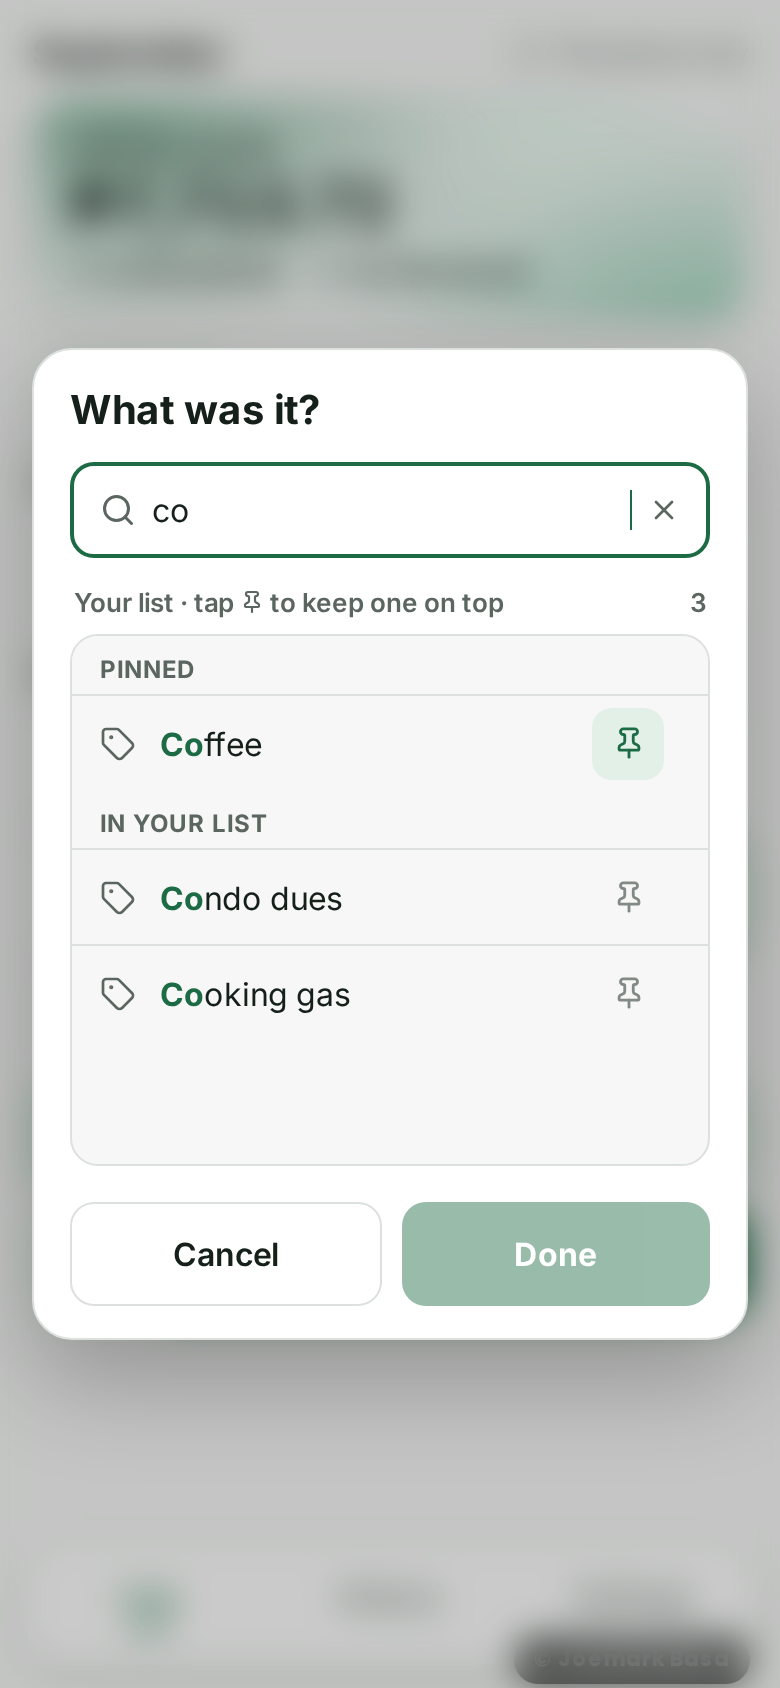
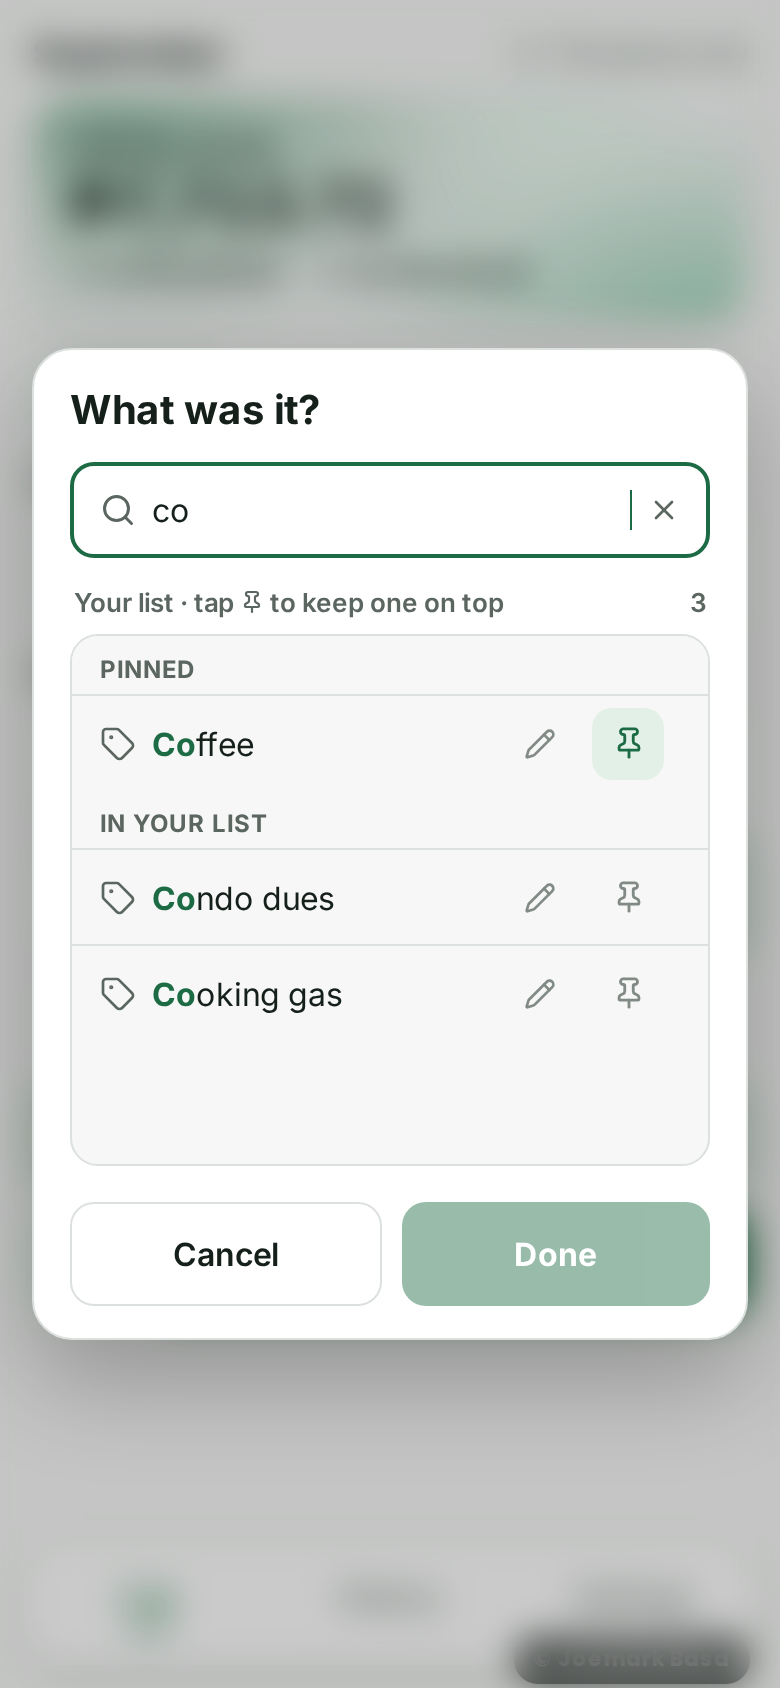
Mockups 3.1 round 5: edit a name in the Other list
Pencil next to each pin opens an Edit pop-up: rename (optionally renaming
past entries too) or remove from the list.

Claude-Session: https://claude.ai/code/session_015nXdEW66MzNZpF9pMsWtRi

diff --git a/docs/mockups/3.1/mock.html b/docs/mockups/3.1/mock.html
@@ -132,7 +132,7 @@ svg.i{fill:none;stroke:currentColor;stroke-linecap:round;stroke-linejoin:round;f
 .odlg h3{font-size:20px;font-weight:700}
 .olab{display:flex;justify-content:space-between;align-items:center;font-size:13px;font-weight:600;color:var(--muted);margin:14px 2px 8px}
 .obox{position:relative;height:266px;border:1px solid var(--border);border-radius:14px;overflow:hidden;background:var(--bg)}
-.orow{display:flex;align-items:center;gap:12px;height:48px;padding:0 22px 0 14px;border-top:1px solid var(--border);font-size:16px;color:var(--text)}
+.orow{display:flex;align-items:center;gap:8px;height:48px;padding:0 22px 0 14px;border-top:1px solid var(--border);font-size:16px;color:var(--text)}
 .orow:first-child{border-top:0}
 .orow .ic{color:var(--muted);display:flex}
 .orow.on{background:var(--accentSoft);font-weight:600}
@@ -167,10 +167,10 @@ function vars(key, mode){
   const L = th.L, D = th.D;
   if(!dark) return {accent:L.accent,accentText:'#FFFFFF',accentSoft:L.soft,bg:L.bg,bgAlt:L.bg,surface:'#FFFFFF',text:L.text,muted:L.muted,border:L.border,
     glass:'rgba(255,255,255,0.55)',glassBorder:'rgba(255,255,255,0.60)',nav:'rgba(255,255,255,0.72)',navBorder:'rgba(22,32,27,0.08)',navTop:'rgba(255,255,255,0.9)',
-    scrim:'rgba(17,21,19,0.22)',noteHint:L.muted,hstat:'rgba(255,255,255,0.55)',hbarTrack:'rgba(255,255,255,0.7)',mesh:L.mesh,mo:[1,1,.9],dark:false};
+    scrim:'rgba(17,21,19,0.22)',danger:'#B3261E',noteHint:L.muted,hstat:'rgba(255,255,255,0.55)',hbarTrack:'rgba(255,255,255,0.7)',mesh:L.mesh,mo:[1,1,.9],dark:false};
   return {accent:D.accent,accentText:D.at,accentSoft:D.soft,bg:D.bg,bgAlt:D.bg,surface:D.surface,text:'#EDF1EE',muted:'#A3ADA7',border:D.border,
     glass:'rgba(26,32,29,0.42)',glassBorder:'rgba(255,255,255,0.08)',nav:hexa(D.surface,.74),navBorder:'rgba(255,255,255,0.07)',navTop:'rgba(255,255,255,0.18)',
-    scrim:'rgba(0,0,0,0.38)',noteHint:'#B7C0BA',hstat:'rgba(0,0,0,0.22)',hbarTrack:'rgba(255,255,255,0.14)',mesh:D.mesh,mo:[1,1,.7],dark:true};
+    scrim:'rgba(0,0,0,0.38)',danger:'#F2B8B5',noteHint:'#B7C0BA',hstat:'rgba(0,0,0,0.22)',hbarTrack:'rgba(255,255,255,0.14)',mesh:D.mesh,mo:[1,1,.7],dark:true};
 }
 function hexa(h,a){const n=parseInt(h.slice(1),16);return `rgba(${n>>16},${(n>>8)&255},${n&255},${a})`}
 const V = vars(TH, MODE);
@@ -306,12 +306,20 @@ function faqSheet(){
 // Most used first (Joe v3.1 round 2); pinned ones sit on top whatever their use.
 const MYLIST = ['Haircut','Tuition','Laundry','Condo dues','Cooking gas','Gym','Pets','Gifts','Rent','Netflix','Coffee','Parking'];
 const PINNED = ['Coffee','Parking'];
+function editDlg(){
+  return `<div class="veil" style="z-index:5"></div><div class="dialog" style="z-index:6"><h3>Edit “Coffee”</h3>
+    <div class="field focus" style="margin-top:14px">${ic('tag',18,2,'style="color:var(--accent)"')}<span style="flex:1">Coffee & snacks</span><span style="width:1.5px;height:20px;background:var(--accent)"></span>${ic('x',16,2,'style="color:var(--muted)"')}</div>
+    <div class="check" style="margin:12px 2px 0;align-items:flex-start"><div class="box on" style="margin-top:1px">${ic('check',14,3)}</div><span style="line-height:20px">Rename my 14 past entries too<br><span style="font-size:13px;color:var(--muted);font-weight:400">So History and the charts stay together</span></span></div>
+    <div class="row2"><div class="btn out">Cancel</div><div class="btn" style="font-size:16px">Save</div></div>
+    <div style="margin-top:14px;text-align:center;font-size:15px;font-weight:600;color:var(--danger)">Remove from my list</div>
+    <div style="margin-top:4px;text-align:center;font-size:12.5px;color:var(--muted)">Past entries keep their name if you remove it.</div></div>`;
+}
 function otherDlg(q, typed){
   const ql = (q||'').toLowerCase();
   const match = n => !ql || n.toLowerCase().includes(ql);
   const pinned = PINNED.filter(match), rest = MYLIST.filter(n => !PINNED.includes(n) && match(n));
   const hl = n => { if(!ql) return n; const i=n.toLowerCase().indexOf(ql); return n.slice(0,i)+'<mark>'+n.slice(i,i+ql.length)+'</mark>'+n.slice(i+ql.length); };
-  const row = (n, on) => `<div class="orow"><span class="ic">${ic('tag',18)}</span><span style="flex:1">${hl(n)}</span><span class="opin ${on?'on':''}">${ic('pin',17,2,on?'fill="currentColor"':'')}</span></div>`;
+  const row = (n, on) => `<div class="orow"><span class="ic">${ic('tag',18)}</span><span style="flex:1">${hl(n)}</span><span class="opin">${ic('pen',16,2)}</span><span class="opin ${on?'on':''}">${ic('pin',17,2,on?'fill="currentColor"':'')}</span></div>`;
   let rows = '';
   if (pinned.length) rows += `<div class="osec">Pinned</div>` + pinned.map(n => row(n, true)).join('');
   if (rest.length) rows += `<div class="osec">${ql ? 'In your list' : 'Most used'}</div>` + rest.map(n => row(n, false)).join('');
@@ -345,6 +353,7 @@ else if (S==='olist') html = log({cat:'Other', amt:'120'}) + otherDlg('', false)
 else if (S==='osearch') html = log({cat:'Other', amt:'120'}) + otherDlg('co', false);
 else if (S==='onew') html = log({cat:'Other', amt:'40'}) + otherDlg('Tricycle', true);
 else if (S==='hero') html = log({big:true});
+else if (S==='oedit') html = log({cat:'Other', amt:'120'}) + otherDlg('', false) + editDlg();
 else if (S==='herofilled') html = log({big:true, cat:'Other', picked:'Coffee', amt:'120', note:'Iced latte'});
 else if (S==='settings') html = settings();
 else if (S==='themes') html = settings() + themeSheet();

diff --git a/docs/mockups/3.1/review.html b/docs/mockups/3.1/review.html
@@ -54,20 +54,38 @@ footer{margin-top:56px;color:var(--muted);font-size:14px}
 
 <div class="wrap">
 <header>
-  <div class="eyebrow">Mockup review · round 4</div>
+  <div class="eyebrow">Mockup review · round 5</div>
   <h1>Gastos 3.1</h1>
   <p class="lede">Six updates from Joe's list, drawn as phone-size mockups in light and dark before any code is written. Screens use sample data. Nothing here is built yet; say what to change and I'll do another round.</p>
   <div class="meta">
     <span class="pill">Suggested version: 3.1</span>
     <span class="pill warn">1 small database change</span>
-    <span class="pill">Rounds 3 and 4 for review</span>
+    <span class="pill">Rounds 3 to 5 for review</span>
   </div>
   <nav class="toc" aria-label="Sections">
-    <a href="#round4">Round 4 · Bigger top card</a><a href="#round2">Round 3 · Your list behind Other</a><a href="#built">Built: History details</a>
+    <a href="#round5">Round 5 · Edit a name</a><a href="#round4">Round 4 · Bigger top card</a><a href="#round2">Round 3 · Your list behind Other</a><a href="#built">Built: History details</a>
     <a href="#themes">1 · Color themes</a><a href="#faq">2 · FAQ</a><a href="#blur">3 · Blurred pop-ups</a>
     <a href="#back">4 · Back button</a><a href="#other">5 · “Other” label</a><a href="#note">6 · Note</a><a href="#questions">Questions</a>
   </nav>
 </header>
+
+<section id="round5">
+  <h2><small>Round 5 · for review</small>Edit a name in your list</h2>
+  <p class="what">Each name in the “What was it?” list now has a <b>pencil</b> next to its pin. Tap it and an <b>Edit</b> pop-up opens on top, where you can rename that name or remove it from your list.</p>
+  <ul class="points">
+    <li><b>Rename:</b> type the new name and tap Save. A tick box, on by default, also renames your past entries with that name, so History and the charts keep them together. It says how many entries that is (“Rename my 14 past entries too”).</li>
+    <li><b>Remove from my list:</b> takes the name off your list. Past entries keep their name, the same way Settings → Categories works today.</li>
+    <li>Renaming to a name that's already in your list merges the two. The pop-up says so before you save.</li>
+    <li>Pins and “most used” carry over to the new name.</li>
+    <li>With the tick box on, past entries are renamed on every phone. The server does it in one step, the same way renaming a card or e-wallet works today.</li>
+  </ul>
+  <div class="shots">
+    <figure><img src="img/r2-olist-light.png" alt="The list with a pencil and a pin on each name"><figcaption>Pencil next to each pin</figcaption></figure>
+    <figure><img src="img/r5-oedit-light.png" alt="Edit Coffee pop-up with the new name Coffee and snacks, a tick box to rename 14 past entries, Save and Remove from my list"><figcaption>Tap the pencil: rename or remove</figcaption></figure>
+    <figure><img src="img/r2-olist-dark.png" alt="The list with pencils, dark"><figcaption>List, dark</figcaption></figure>
+    <figure><img src="img/r5-oedit-dark.png" alt="Edit pop-up, dark"><figcaption>Edit, dark</figcaption></figure>
+  </div>
+</section>
 
 <section id="round4">
   <h2><small>Round 4 · for review</small>A bigger top card that fills the screen</h2>
